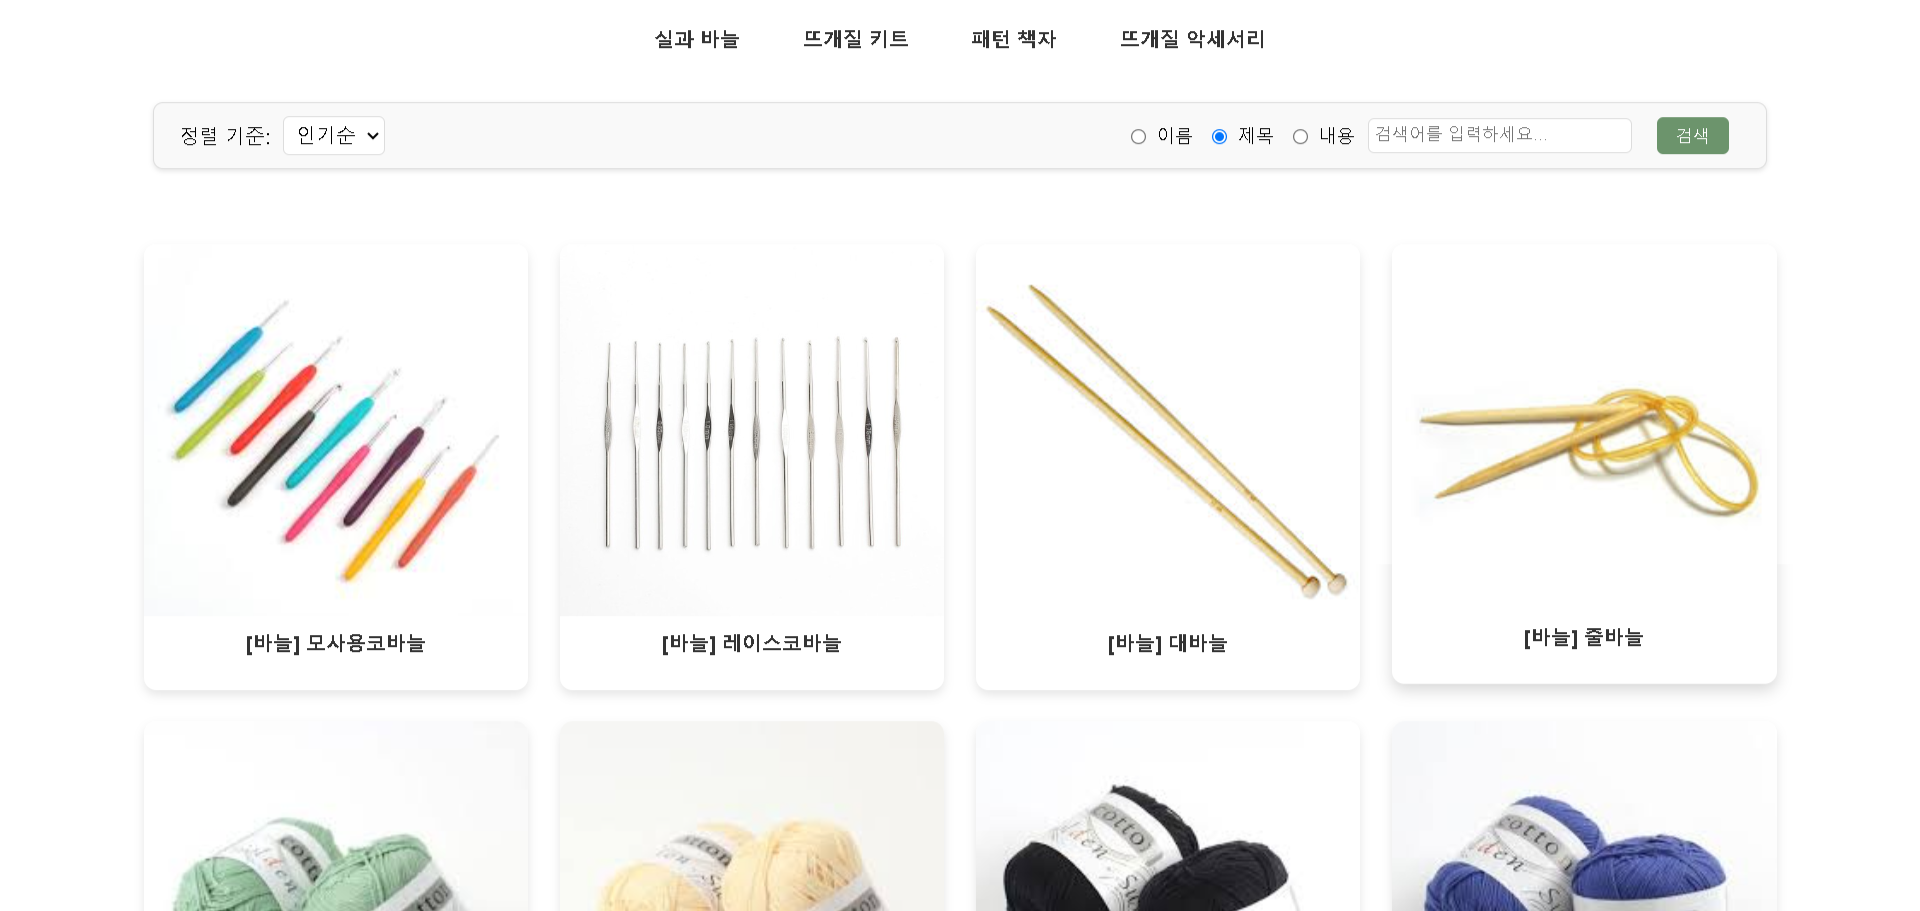
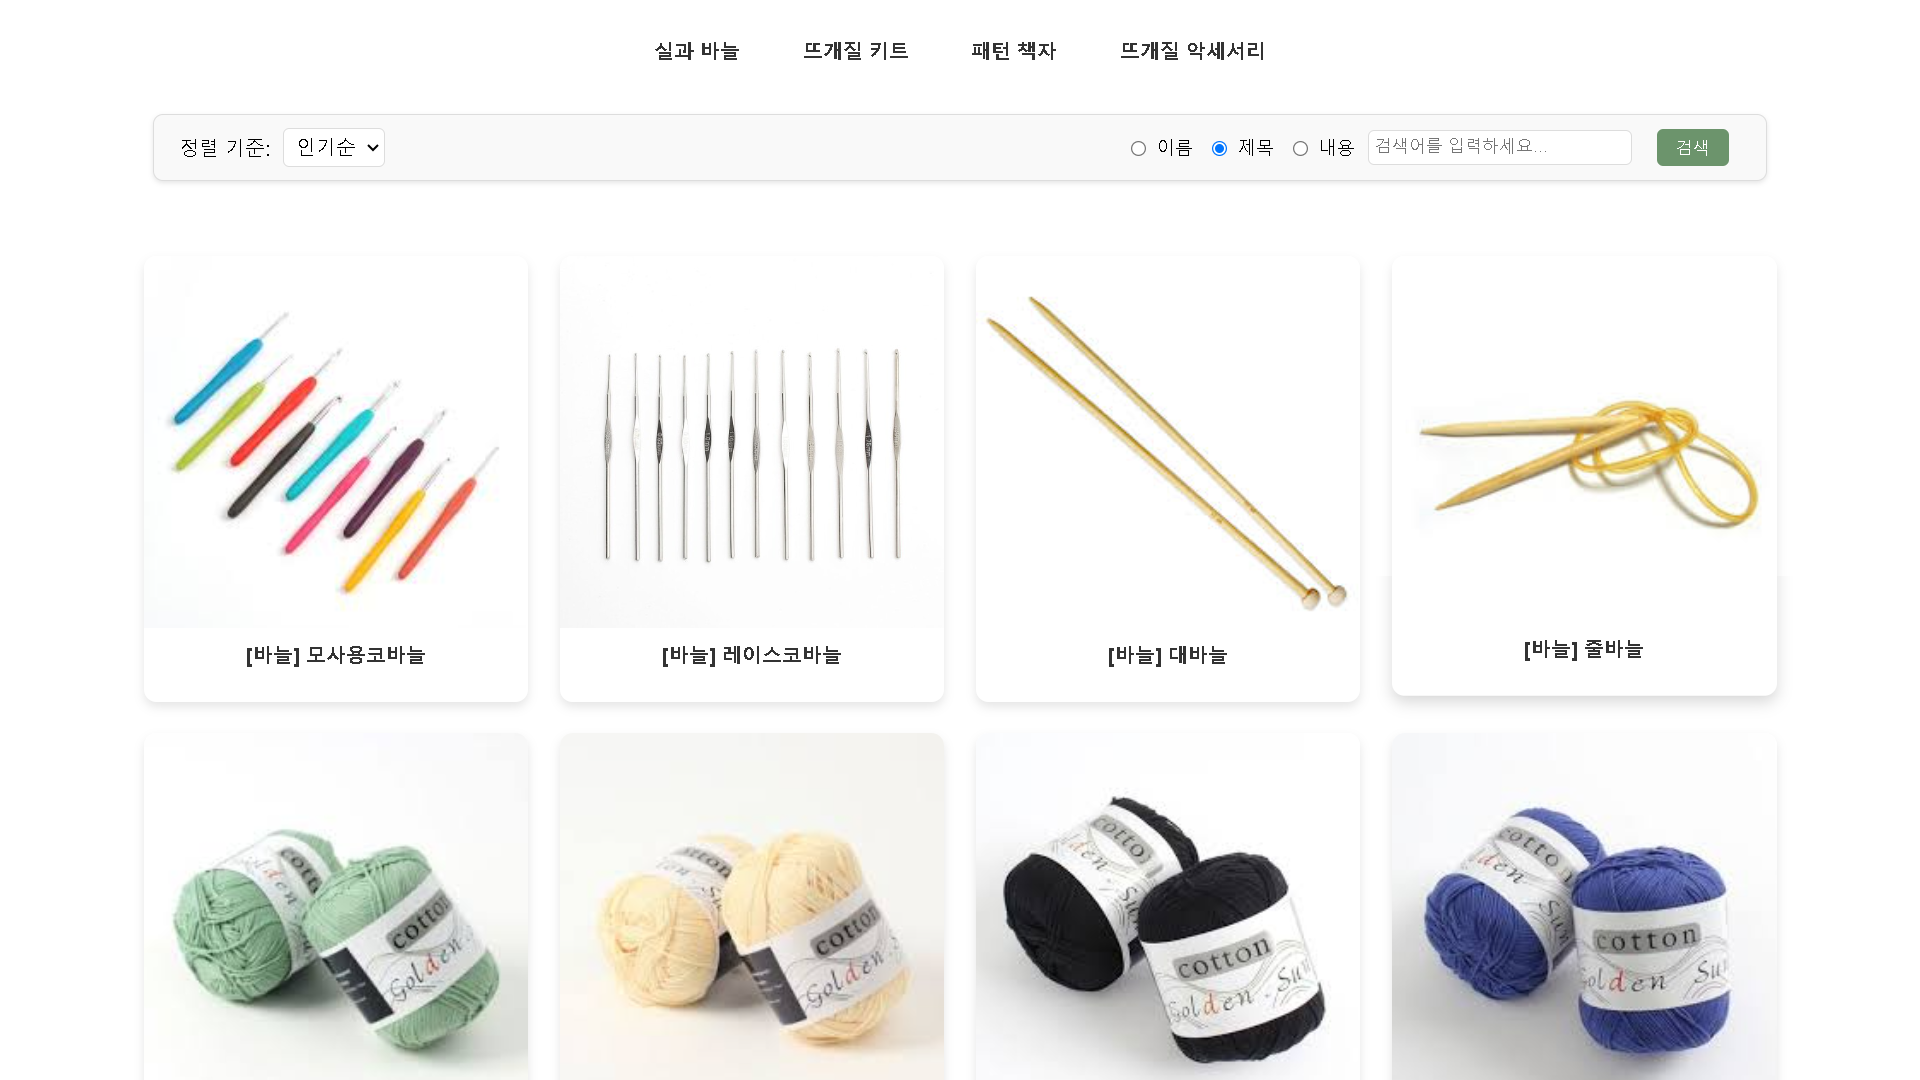
feat : shop 페이지 설명 추가

diff --git a/src/main/resources/static/css/styles.css b/src/main/resources/static/css/styles.css
@@ -645,7 +645,7 @@ footer {
 
 
 
-/* AI 소개 배너 스타일 */
+/* Shop 소개 배너 스타일 */
 .shop-banner {
     position: relative;
     text-align: center;
@@ -674,19 +674,6 @@ footer {
     margin-top: 10px;
     margin-bottom: 20px;
 }
-.shop-coming-soon-btn {
-    background-color: #6b8057;
-    border: none;
-    padding: 10px 20px;
-    font-size: 1em;
-    color: white;
-    cursor: pointer;
-    border-radius: 20px;
-    transition: background-color 0.3s ease;
-}
-.shop-coming-soon-btn:hover {
-    background-color: #4b5e39;
-}
 
 /* shop Intro Text 가운데 정렬 */
 .shop-intro-text {
@@ -703,11 +690,6 @@ footer {
 .shop-intro-text p {
     font-size: 1.5em;
     color: #333;
-}
-
-.shop-highlight {
-    color: #6b8057; /* 뜨개랑에 강조 색상 적용 */
-    font-weight: bold;
 }
 
 /* shop.html 쇼핑 페이지 CSS */
@@ -1000,6 +982,96 @@ footer {
     border-color: #4e5c36;
 }
 
+
+/* Design 소개 배너 스타일 */
+.design-banner {
+    position: relative;
+    text-align: center;
+    color: #ffffff;
+    overflow: hidden;
+}
+.design-banner-img {
+    width: 100%;
+    filter: brightness(0.2);
+}
+
+.design-banner-text {
+    position: absolute;
+    top: 50%;
+    left: 50%;
+    transform: translate(-50%, -50%);
+    text-align: center;
+    max-width: 900px;
+}
+.design-banner-text h1 {
+    font-size: 2.5em;
+    margin: 0;
+}
+.design-banner-text p {
+    font-size: 1.2em;
+    margin-top: 10px;
+    margin-bottom: 20px;
+}
+
+/* shop Intro Text 가운데 정렬 */
+.design-intro-text {
+    text-align: center;
+    padding: 200px 20px; /* 여백 추가 */
+}
+
+.design-intro-text h2 {
+    font-size: 2em;
+    color: #333;
+    margin: 0;
+}
+
+.design-intro-text p {
+    font-size: 1.5em;
+    color: #333;
+}
+/* Main 컨테이너 */
+.design-main {
+    display: flex;
+    flex-direction: row;
+    gap: 20px;
+    justify-content: space-between;
+    max-width: 1500px;
+    margin: 0 auto;
+    padding: 20px;
+    box-sizing: border-box;
+}
+
+/* 왼쪽 여백 */
+.design-left-space {
+    flex: 0.5; /* 여백 크기 */
+    display: flex;
+    justify-content: center;
+    align-items: center;
+    padding: 10px;
+    border-radius: 10px;
+    margin-top: 20px;
+    margin-bottom: 100px;
+}
+
+/* 오른쪽 여백 */
+.design-right-space {
+    flex: 0.5; /* 여백 크기 */
+    display: flex;
+    justify-content: center;
+    align-items: center;
+    padding: 10px;
+    border-radius: 10px;
+    margin-top: 20px;
+    margin-bottom: 100px;
+}
+
+/* 여백 텍스트 */
+.design-space-text {
+    font-size: 1.2rem;
+    color: #000000;
+    text-align: center;
+}
+
 /* design.html 연락처 페이지 CSS */
 .design-product-detail {
     display: flex;
@@ -1011,6 +1083,7 @@ footer {
     box-shadow: 0 2px 10px rgba(0, 0, 0, 0.1);
     max-width: 900px;
     margin: 20px auto;
+    margin-bottom: 100px;
     font-family: Arial, sans-serif;
 }
 

diff --git a/src/main/resources/templates/shop.html b/src/main/resources/templates/shop.html
@@ -34,13 +34,13 @@
         <div class="shop-banner-text">
             <h1>뜨개랑 Shop 서비스, 곧 출시됩니다!</h1>
             <p>뜨개질을 더욱 쉽고 재미있게! 다양한 뜨개질 상품과 새로운 경험을 만들어 보세요!</p>
-            <button class="shop-coming-soon-btn" onclick="location.href='/community'">커뮤니티에 기대평 남기기!</button>
+            <button class="coming-soon-btn" onclick="location.href='/community'">커뮤니티에 기대평 남기기!</button>
         </div>
     </div>
 
     <section class="shop-intro-text">
         <h2>원하는 뜨개 상품을 찾느라 헤매고 계신가요?</h2>
-        <p>이제 <span class="shop-highlight">뜨개랑</span>에서 구매하세요</p>
+        <p>이제 <span class="highlight">뜨개랑</span>에서 구매하세요</p>
     </section>
 
     <!-- Content Section -->
@@ -55,7 +55,7 @@
         </div>
 
         <section class="shop-navbar-text"><!--정식서비스 시 제거-->
-            <p>필요한 <span class="shop-highlight">카테고리</span>를 선택하세요</p>
+            <p>필요한 <span class="highlight">카테고리</span>를 선택하세요</p>
         </section>
 
         <!-- 정렬 및 검색 바 -->
@@ -84,7 +84,7 @@
         </div>
 
         <section class="shop-filter-text"><!--정식서비스 시 제거-->
-            <p><span class="shop-highlight">정렬 및 검색</span>을 할 수 있습니다</p>
+            <p><span class="highlight">정렬 및 검색</span>을 할 수 있습니다</p>
         </section>
 
         <div class="shop-gallery">
@@ -105,7 +105,7 @@
         </div>
 
         <section class="shop-item-text"><!--정식서비스 시 제거-->
-            <p>당신이 <span class="shop-highlight">원하는 물품</span>을 찾을 수 있습니다</p>
+            <p>당신이 <span class="highlight">원하는 물품</span>을 찾을 수 있습니다</p>
         </section>
 
         <div class="shop-pagination">

diff --git a/src/main/resources/templates/design.html b/src/main/resources/templates/design.html
@@ -29,8 +29,26 @@
         <button id="mypage-btn" onclick="location.href='/mypage'" sec:authorize="isAuthenticated()">마이페이지</button>
     </nav>
 
+    <div class="design-banner">
+        <img src="/images/design-banner.png" alt="design 서비스 준비 중" class="design-banner-img">
+        <div class="design-banner-text">
+            <h1>뜨개랑 Design 서비스, 곧 출시됩니다!</h1>
+            <p>도안의 상세 설명, 난이도, 구성품 정보까지 모두 담겨 있는 이 Design 창은,<br>당신의 경험을 얼마나 편리하게 만들어 줄까요?</p>
+            <button class="coming-soon-btn" onclick="location.href='/community'">커뮤니티에 기대평 남기기!</button>
+        </div>
+    </div>
+
+    <section class="design-intro-text">
+        <h2>도안을 구매하실 준비가 되셨나요?</h2>
+        <p>이제 <span class="highlight">뜨개랑</span>에서 다운하세요</p>
+    </section>
+
     <!-- Design Section -->
-    <main>
+    <main class="design-main">
+        <!-- 왼쪽 여백 -->
+        <div class="design-left-space">
+            <p class="design-space-text">이미지를 통해 시각적으로<br><span class="highlight">상품의 디테일을 확인하세요</span></p>
+        </div>
         <div class="design-product-detail">
             <div class="design-product-image">
                 <img src="/images/가방.jpg" alt="가방">
@@ -46,6 +64,10 @@
                     <p>준비물(미포함) : 파스텔 블루 (3볼), 코바늘, 돗바늘, 가죽 스트랩 (2개), 라벨</p>
                 </div>
             </div>
+        </div>
+        <!-- 오른쪽 여백 -->
+        <div class="design-right-space">
+            <p class="design-space-text">각 항목을 통해 상품의<br><span class="highlight">정보를 자세히 확인해보세요</span></p>
         </div>
     </main>
 
